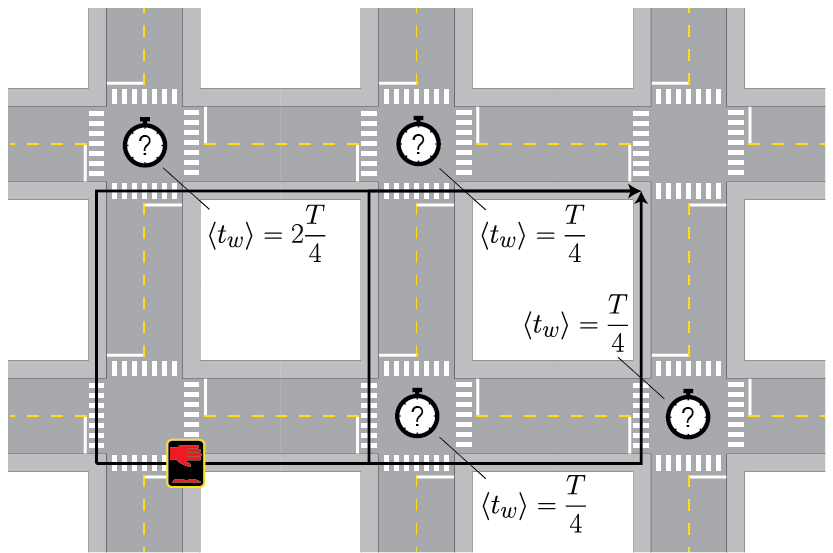
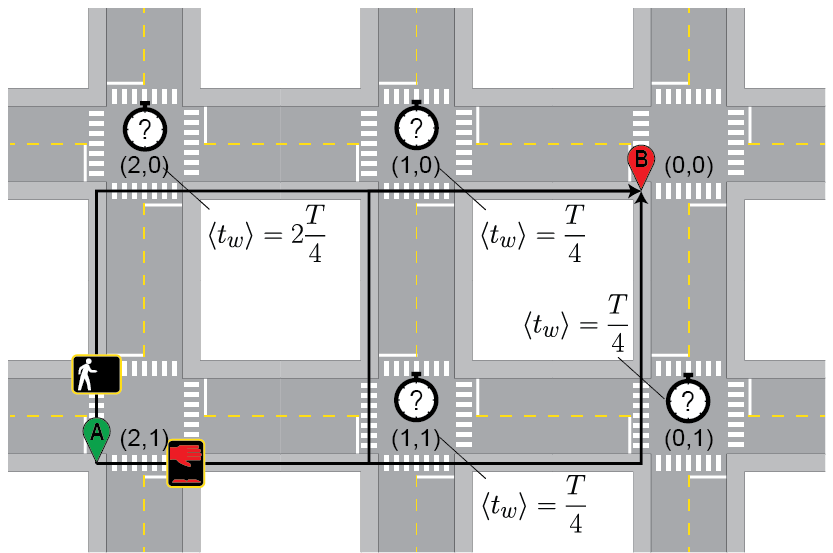
finished city puzzle

diff --git a/_posts/2018-04-14-city-puzzle.html b/_posts/2018-04-14-city-puzzle.html
@@ -1,0 +1,107 @@
+---
+layout: post
+title: City Puzzle
+categories:
+- Programming
+tags: []
+comments: []
+---
+
+
+<p>
+	I thought of a fun puzzle while I was at a conference in Downtown LA.
+
+	You and I are in a city with a grid layout. All pedestrian signals alternate which direction is allowed to walk, and last exactly the same amount of time. To simplify, we are only allowed to cross one road at each intersection and we can never jaywalk. 
+
+</p>
+
+
+<br/>
+<center>
+<img src="/assets/img/2018/04/east.png"></img>
+</center>
+<br/>
+
+<p>
+	We're trying to meet a friend at a restaurant two blocks north and one block east. We come to an intersection. We've got a walk signal going north, and a don't walk signal going east, with a big red timer counting down. The timer says one second. What do we do?
+
+	Maybe you're thinking it doesn't matter?
+</p>
+
+<br/>
+<center>
+<img src="/assets/img/2018/04/scene.png"></img>
+</center>
+<br/>
+
+<p>
+	<i>Foolishly</i>, you go north. Already, your fate is sealed. At the next intersection can only go east, so you have no choice but to wait three seconds for the light to change. The intersection after that, you need to go east again. You wait an excruciating five seconds. 
+</p>
+
+<p>
+	I go east. I lost one second waiting for the light to chance, but I'm not worried. As I arrive at the next intersection, I smile to myself and immediately walk whichever way the light allows, east in this case. At the next intersection, I wait a modest four seconds for the light to allow me to go north. One block later, I arrive at the intersection three precious seconds before you do. I high-five our mutual friend. You miss out.
+</p>
+
+
+<br/>
+<center>
+<img src="/assets/img/2018/04/paths.png"></img>
+</center>
+<br/>
+
+<p>
+	What happened here? The only signal you know about is the one you're standing at. We know that you can go north immediately, but you have to wait one second to go east so,  \( \tau_{north} = 0\text{ s} \) and \( \tau_{east} = 1\text{ s} \). We don't know anything about the other lights, but we can try to figure out some average behavior.
+</p>
+
+<br/>
+<center>
+<img src="/assets/img/2018/04/paths_uncertain.png"></img>
+</center>
+<br/>
+
+<p>
+	To find the average wait time, let's plot out the system. Say each walk signal lasts a time \(T\). The x-axis on the plot below is the time you arrive at the light, marked with the moments when the signals change. The y-axis is the resulting wait time to go in each direction. If you know nothing about the state of an intersection and you want to go east, you could get lucky and arrive when the light allows you to go east. You could also arrive and have to wait \(T\) seconds. One in two chance of catching a walk signal. Average wait time of \(T/2\) if you catch a don't walk signal. Overall, the average time you expect to wait is \( \left < t \right > = \frac{T}{4} \). 
+</p>
+
+<br/>
+<center>
+<img src="/assets/img/2018/04/wait_time.png"></img>
+</center>
+<br/>
+
+<p>
+	We can apply this to the intersections in question. At the intersection (1,0), we must go east. We could get lucky and be able to go immediately, but we expect to wait an average of \(\frac{T}{4}\). We'll write \( \left < t_{(1,0)} \right > = \frac{T}{4} \). The situation at (0,1) is the same, \( \left < t_{(0,1)} \right > = \frac{T}{4} \). At (2,0), you have to wait the same average time as at (1,0) twice, for a total wait time of \( \left < t_{(2,0)} \right > =2 \frac{T}{4} \) from (2,0) to the finish line.
+
+</p>
+<p>
+	 Things are different at (1,1). Here, you get to make a decision. You can immediately go to either (0,1) or (1,0), whichever the light allows. Because you get to choose, intersection at (1,1) is free. That means a total wait time of only \( \left < t_{(1,1)} \right > = \frac{T}{4} \) from here. That's the value of having multiple options. 
+</p>
+
+<br/>
+<center>
+<img src="/assets/img/2018/04/paths_avg.png"></img>
+</center>
+<br/>
+
+<p>
+	The problem is almost solved. At (2,1), we know our options now. We can immediately go north to (2,0), where we expect to wait \(T/2\), or we can wait one second and go to (1,1), where we expect to wait \(T/4\). In other words, \(\left < t_{north}\right > = \frac{T}{2}\) and \(\left < t_{east} \right > = \frac{T}{4} + 1\text{ s}\). As long as T is longer than 4 seconds, you should go east. In general, you should go east unless \(\tau_{east} > \frac{T}{4}\).
+</p>
+<p>
+
+	It's more complicated for other intersections, but I wrote some code to figure it out. If you're walking in an idealized city and you have Mathematica on your phone, feel free to use it to save time.
+
+{% highlight mathematica %}
+{% raw %}
+tS[t_]:= Piecewise[{{T-t,0<=t<=T},{0,T<=t<=2T}}]/.{T->1}
+tE[t_]:= Piecewise[{{0,0<=t<=T},{2T-t,T<=t<=2T}}]/.{T->1}
+{% endraw %}
+expectation[fn_]:=Integrate[fn[t]/2,{t,0,2}]
+
+expectation[0,0]:= 0
+expectation[0,dy_]:= expectation[dy,0]
+expectation[dx_,0] :=(1/2) +expectation[dx-1,0]
+expectation[dx_,dy_]:=expectation[Min[tE[#]+expectation[dx-1,dy],tS[#]+expectation[dx,dy-1]]&]
+
+goEast[dx_,dy_,t_]:=(expectation[dx,dy-1] >= t + expectation[dx-1,dy])
+{% endhighlight %}
+</p>
